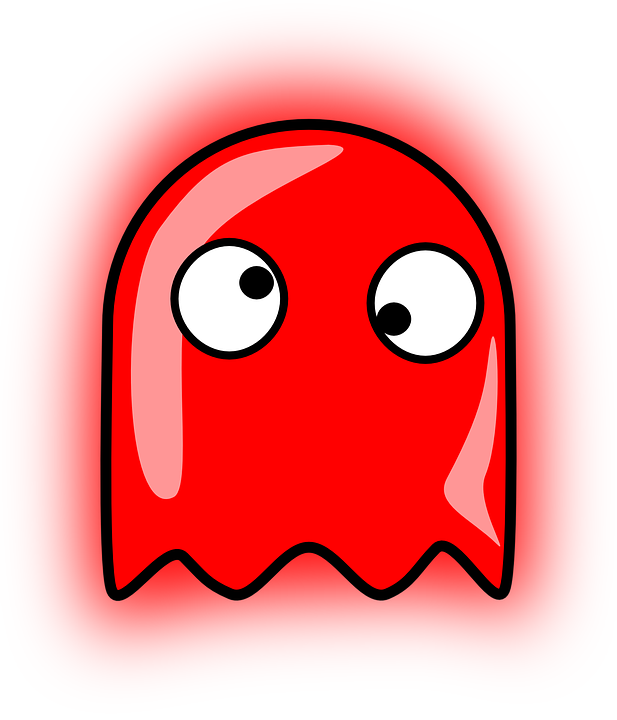
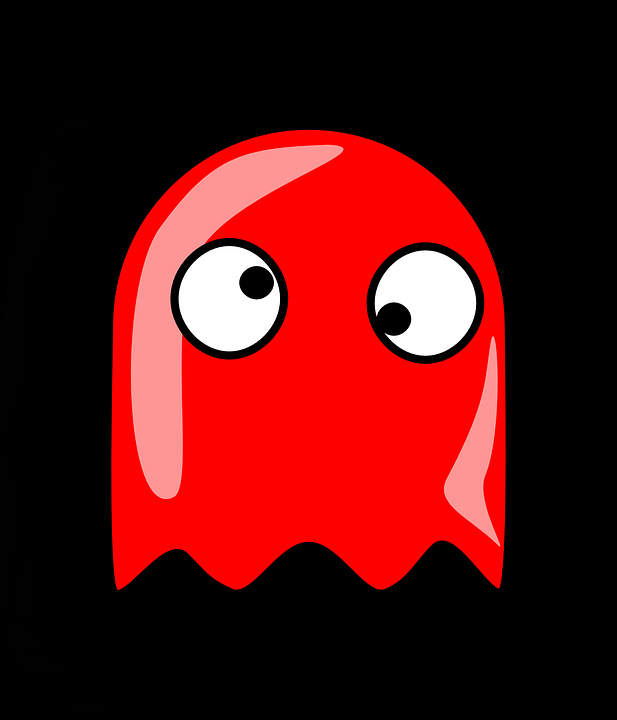
New Ghost sprites

diff --git a/src/view/Board.java b/src/view/Board.java
@@ -34,6 +34,8 @@ public class Board extends JPanel implements KeyListener{
 	ImageIcon fruitIcon = new ImageIcon(new ImageIcon("res/fruit_cherry.png").getImage().getScaledInstance(CELLSIZE, CELLSIZE, Image.SCALE_DEFAULT));
 	ImageIcon tunnelIcon = new ImageIcon(new ImageIcon("res/wall2.png").getImage().getScaledInstance(CELLSIZE, CELLSIZE, Image.SCALE_DEFAULT));
 	ImageIcon ghostIcon = new ImageIcon(new ImageIcon("res/ghost.png").getImage().getScaledInstance(CELLSIZE, CELLSIZE, Image.SCALE_DEFAULT));
+	ImageIcon ghost2Icon = new ImageIcon(new ImageIcon("res/ghost2.png").getImage().getScaledInstance(CELLSIZE, CELLSIZE, Image.SCALE_DEFAULT));
+	ImageIcon ghost3Icon = new ImageIcon(new ImageIcon("res/ghost3.gif").getImage().getScaledInstance(CELLSIZE, CELLSIZE, Image.SCALE_DEFAULT));
 	ScoreBar scoreBar;
 	Direction dir;
 	private boolean started;
@@ -83,7 +85,12 @@ public class Board extends JPanel implements KeyListener{
 							}
 						if(!ga) {
 							JLabel ghost = new JLabel();
-							ghost.setIcon(ghostIcon);
+							if(game.getGhost(gt).getState() == 1)
+								ghost.setIcon(ghostIcon);
+							else if(game.getGhost(gt).getState() == 2)
+								ghost.setIcon(ghost2Icon);
+							else
+								ghost.setIcon(ghost3Icon);
 							addComp(ghost);
 							pos[k] = gtPos;
 							k++;

diff --git a/src/logic/Ghost.java b/src/logic/Ghost.java
@@ -19,6 +19,7 @@ public class Ghost implements IGhost{
 	private boolean movable = false; //false if in the "house"
 	private Direction currentDirection;
 	private long respawnTime;
+	private int state = 1;
 
 	public Ghost(int[] pos, int points, GhostType type, long respawnTime, int[] exitPosition) {
 		this.position = pos.clone();
@@ -158,10 +159,28 @@ public class Ghost implements IGhost{
 
 	public void changeState() {
 		this.canBeEaten = !this.canBeEaten;
+		if(this.canBeEaten) {
+			this.state = 2;
+			(new Timer()).schedule(new TimerTask() {
+				
+				@Override
+				public void run() {
+					state = 3;
+					
+				}
+			}, (long)(Math.floor(Game.INSTANCE.getPowerTime()*0.70)));
+		}
+		else
+			this.state = 1;
+	}
+	
+	public int getState() {
+		return this.state;
 	}
 
 	public void respawn(boolean isDead) {
 		this.canBeEaten = false;
+		this.state = 1;
 		if(isDead)
 			Game.INSTANCE.player.addScore(this.points);
 		this.position = this.respawnPosition.clone();

diff --git a/src/logic/IGhost.java b/src/logic/IGhost.java
@@ -25,4 +25,10 @@ public interface IGhost {
 	 * Starts spawn timer.
 	 */
 	public void init();
+
+	/**
+	 * Gets the state of the ghost.
+	 * @return integer representing state of the ghost
+	 */
+	public int getState();
 }

diff --git a/src/logic/Game.java b/src/logic/Game.java
@@ -155,4 +155,8 @@ public class Game implements IGame{
 	public int getLevels() {
 		return this.loader.getLevels();
 	}
+	
+	public int getPowerTime() {
+		return this.loader.getPowerTime()*1000;
+	}
 }
